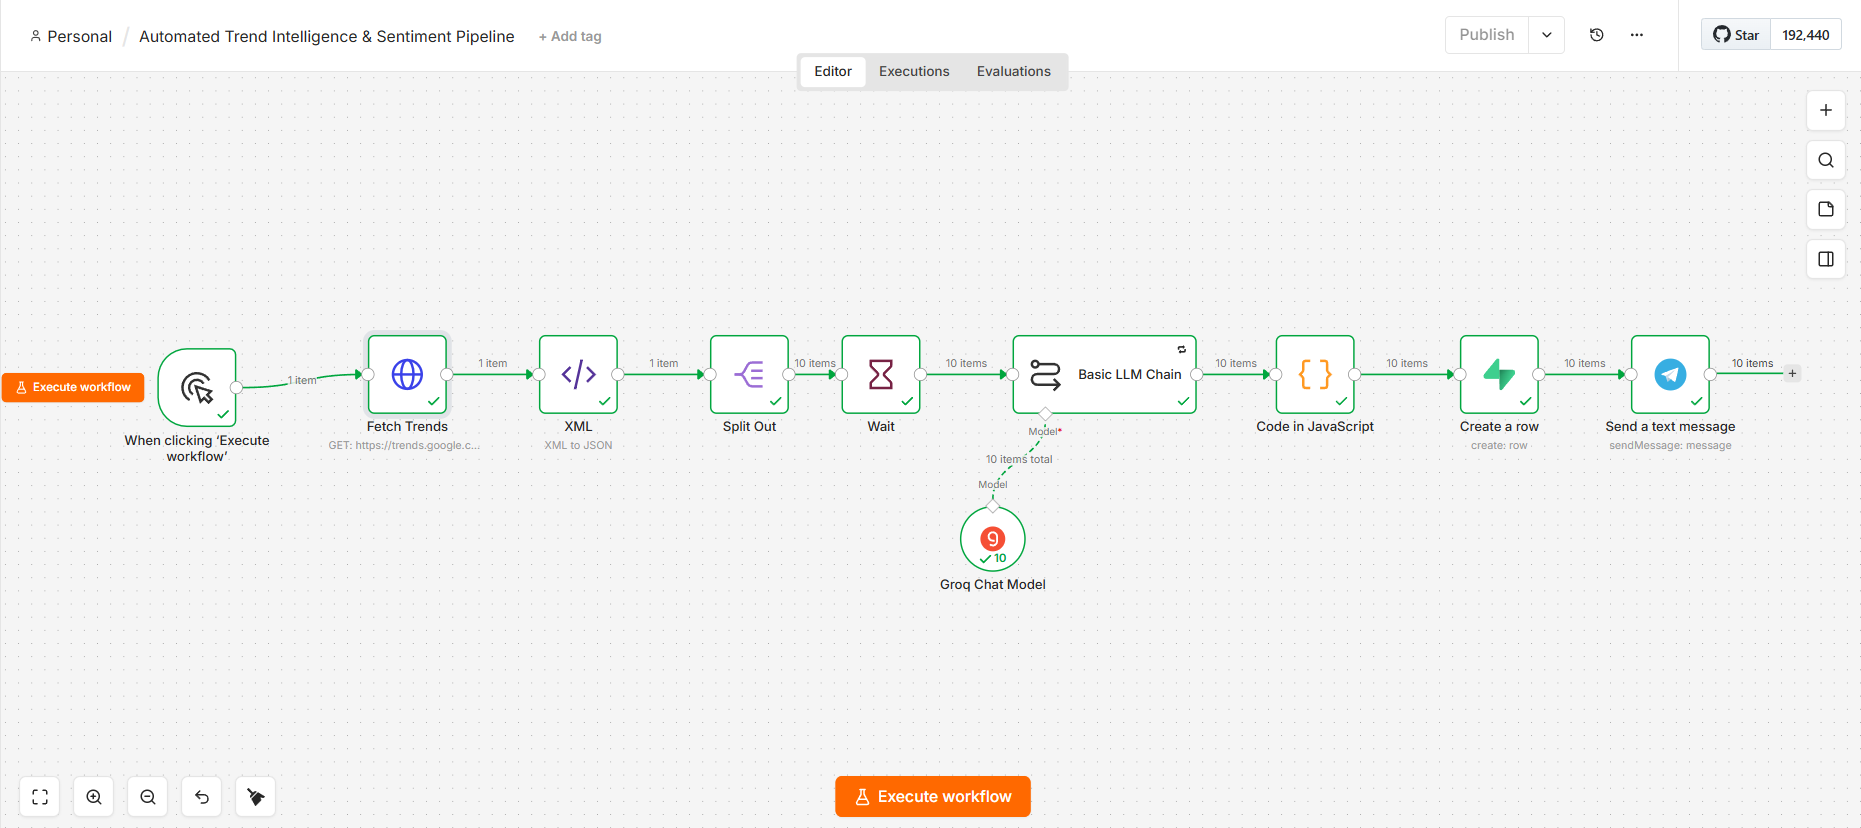
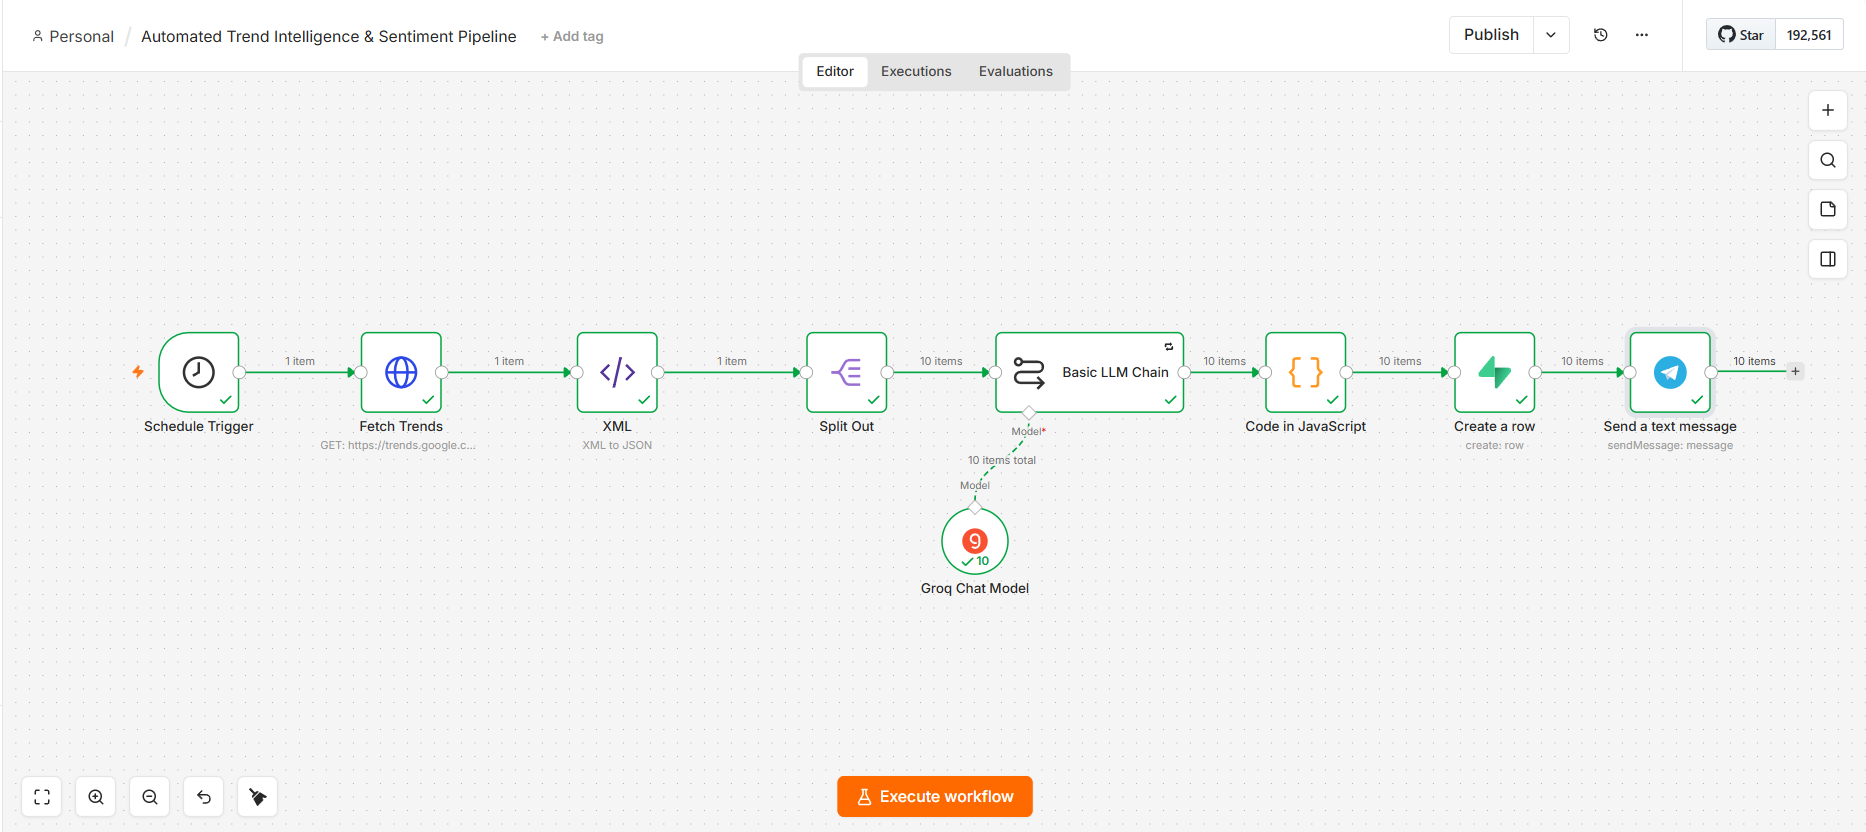
Update pipeline JSON: fix parser and sync trend names

diff --git a/README.md b/README.md
@@ -1,24 +1,50 @@
-# 📊 Automated Trend Intelligence & Sentiment Pipeline
+Automated Trend Intelligence & Sentiment Pipeline
 
-An autonomous, production-grade ETL and AI data pipeline built using **n8n**, **LangChain**, **Groq (Llama-3.1-8b)**, and **Supabase**. This system monitors high-velocity Google Trends, structurally normalizes raw XML data, runs real-time sentiment and categorical analysis via LLMs, logs records securely into a cloud database, and dispatches real-time structured alerts via Telegram.
+An autonomous, production-grade ETL and AI data pipeline built using n8n, LangChain, Groq (Llama-3.1-8b), and Supabase. This system monitors high-velocity Google Trends, structurally normalizes raw XML data, runs real-time sentiment and categorical analysis via LLMs, logs records securely into a cloud database, and dispatches real-time structured alerts via Telegram.
 
----
+🛠️ Workflow Architecture Canvas
 
-## 🚀 Pipeline Features
+Below is the execution canvas of the production pipeline inside n8n:
 
-- **Automated RSS Fetching & Normalization:** Continuously monitors Google Trends RSS feeds, transforms raw XML payloads into optimized JSON objects, and unpacks batches dynamically using sequential data splitting.
-- **High-Performance LLM Synthesis:** Leverages **Groq's Llama-3.1-8b-instant** model to execute zero-shot sentiment parsing (`Positive`, `Negative`, `Neutral`) and domain categorization without prompt-leaking or markdown code blocks.
-- **Built-in Rate Limiting & Throttling:** Utilizes an integrated asynchronous `Wait` node buffer (13 seconds) to handle asynchronous scaling and safely stay within free-tier Groq API RPM/TPM thresholds.
-- **Defensive JavaScript Data Extraction:** Features a post-LLM sanitization layer that handles edge-case string formatting, ensuring 100% resilient `JSON.parse()` consistency before hitting the data persistence layer.
-- **Cloud Persistence & Alerting:** Automates structured relational data logging into **Supabase** while routing localized execution summaries directly to a dedicated Telegram interface (`NaimTrendBot`).
+🚀 Key Features
 
----
+Automated RSS Fetching & Normalization: Continuously monitors Google Trends RSS feeds, transforms raw XML payloads into optimized JSON objects, and unpacks batches dynamically using sequential data splitting.
 
-## 🛠️ Workflow Architecture Diagram
+High-Performance LLM Synthesis: Leverages Groq's Llama-3.1-8b-instant model to execute zero-shot sentiment parsing (Positive, Negative, Neutral) and domain categorization without prompt-leaking.
 
-As visible on the n8n execution canvas:
+Defensive JavaScript Data Extraction: Features a post-LLM sanitization layer that strips unwanted markdown formatting (such as ```json blocks) which LLMs occasionally return, ensuring 100% resilient JSON.parse() consistency before hitting database persistence.
 
-```text
-[Manual Trigger] ➔ [Fetch Trends (HTTP)] ➔ [XML Parser] ➔ [Split Out] 
-                                                               ⬇
-[Telegram Alert] ⬅ [Supabase Insert] ⬅ [JS Parser] ⬅ [Basic LLM Chain + Groq] ⬅ [Wait Buffer]
+Fail-Safe Fallbacks: Includes error-catching logic that prevents workflow failure if the LLM output is malformed, defaulting to standard classifications instead.
+
+Built-in Rate Limiting & Throttling: Utilizes an integrated asynchronous Wait node buffer (13 seconds) to handle asynchronous scaling and safely stay within free-tier Groq API RPM/TPM thresholds.
+
+Cloud Persistence & Alerting: Automates structured relational data logging into Supabase while routing localized execution summaries directly to a dedicated Telegram channel.
+
+📐 Pipeline Flow Chart
+
+[Schedule Trigger] ➔ [Fetch Trends (HTTP)] ➔ [XML Parser] ➔ [Split Out] 
+                                                                 ⬇
+[Telegram Alert] ⬅ [Supabase Insert] ⬅ [JS Sanitizer] ⬅ [Basic LLM Chain + Groq] ⬅ [Wait Buffer]
+
+Environment & Credentials Checklist
+
+Before deploying, ensure you have set up active credentials in your n8n instance for:
+
+Groq Cloud API: Required for the Groq Chat Model node (Llama-3.1-8b-instant).
+
+Supabase API: Required for the Create a row node (Project URL and Service Role Key).
+
+Telegram Bot API: Required for the Send a text message node (Bot Token & Target Chat ID).
+
+📥 How to Import & Use
+
+Copy the raw content of the workflow.json file from this repository.
+
+Open your n8n dashboard and create a new workflow.
+
+Import the file by pressing Ctrl + V (or Cmd + V on Mac) directly on your canvas grid.
+
+Update the Supabase, Groq, and Telegram nodes with your custom credentials.
+
+Save and switch the workflow status to Active to start gathering autonomous trend intelligence!
+